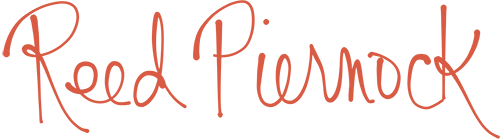
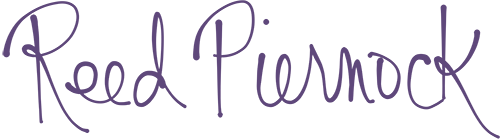
monochrome color scheme

diff --git a/themes/nighthawk/static/css/main.css b/themes/nighthawk/static/css/main.css
@@ -1,1 +1,1 @@
-*{position:relative;-moz-box-sizing:border-box;-webkit-box-sizing:border-box;box-sizing:border-box}body{margin:0;padding-top:4rem;background:#fff;color:#000;font-size:24px;line-height:1.4;font-family:"Heebo", Helvetica, Arial, sans-serif}a{-moz-transition:all,.3s,ease;-o-transition:all,.3s,ease;-webkit-transition:all,.3s,ease;transition:all,.3s,ease;color:#006ae0;font-weight:bold}a:focus,a:hover{color:#007f36}*:first-child{margin-top:0}*:last-child{margin-bottom:0}h1,h2,h3{font-family:"Lora", "Times New Roman", serif}h1{font-size:2.75rem;line-height:1}h2{font-size:1.5rem}h1+p,h2+p,h3+p,h4+p,h5+p,h6+p{margin-top:0}pre,code{margin-bottom:1rem;font-family:"Inconsolata", monospace}blockquote{margin-left:0;padding-left:1.5rem;border-left:0.25rem solid #333;color:#333}.title{margin-bottom:0;font-size:4rem}.subtitle{margin-top:0;font-size:1.5rem}.project-name{margin-bottom:0.5rem}.project-website{margin:0 0 2rem;color:#333;font-style:italic;font-size:1.2rem}header .title{margin-bottom:0.75rem;padding-bottom:0.75rem;border-bottom:1px solid #b73e2a}.float-left{float:left;margin-right:1rem}.float-right{float:right;margin-left:1rem}.float-fix{overflow:hidden}.text-center{text-align:center}.text-right{text-align:right}.container{max-width:1140px;margin:0 auto;padding-left:1rem;padding-right:1rem}header{padding:2rem 0 1rem}main{padding:1rem 0 2rem}section{margin:1rem 0 2rem}footer{padding:1rem 0 0}main.aside{overflow:hidden}@media (min-width: 0) and (max-width: 768px){main.aside{padding-left:0;padding-right:0}}@media (min-width: 768px){main.aside section{float:left;width:65%;margin-left:-1rem}main.aside aside{float:right;width:31%;margin-right:-1rem}}.project-img{max-width:400px;margin-bottom:1rem}.project-img a{border:none}.project-img img{display:block;margin-bottom:0.5rem}@media (min-width: 768px){.project-wrap{overflow:hidden;width:100%}.project-img{float:left;width:31%}.project-info{float:right;width:65%}.project-info ul.block{padding-bottom:1rem;border-bottom:1px solid #b73e2a}}aside h1{font-size:1.5rem}.band-dark{padding:1rem 0;background:#006ae0;color:#fff}.band-dark a{color:#fff7f3}.band-dark a:hover,.band-dark a:focus{background:#004694;color:#fff}.band-light{padding:2rem 0;background:#fff7f3;color:#000}.boxes{position:relative;margin-top:1rem}@media (min-width: 768px){.boxes{display:-webkit-flex;display:flex;-webkit-flex-wrap:wrap;flex-wrap:wrap;-webkit-justify-content:space-between;justify-content:space-between}}.box{display:block;margin-bottom:1rem;padding-bottom:1rem;border:none;line-height:inherit}.box img{margin-bottom:1rem}.box .title{font-size:1.2rem}.box .title.icon{margin-bottom:2rem;color:#006ae0}.box .capabilities{font-size:0.9rem}@media (min-width: 576px){.box{display:inline-block;-webkit-flex:0 1 48%;flex:0 1 48%}}@media (min-width: 992px){.box{-webkit-flex:0 1 31%;flex:0 1 31%}}@media (min-width: 768px){.box-two{-webkit-flex:0 1 65%;flex:0 1 65%}}.project{margin-bottom:2.5rem;border-radius:0.25rem;background:#007f36;color:#fff;text-decoration:none}.project img{-moz-backface-visibility:hidden;-webkit-backface-visibility:hidden;backface-visibility:hidden;filter:progid:DXImageTransform.Microsoft.Alpha(Opacity=75);opacity:.75;border-radius:0.25rem 0.25rem 0 0}.project .title,.project .capabilities{margin:0;padding:0 1rem}.project .title{margin:0 0 0.5rem}.project:hover,.project:focus{-moz-transition:all,.3s,ease;-o-transition:all,.3s,ease;-webkit-transition:all,.3s,ease;transition:all,.3s,ease;background:#003315;color:#d9d9d9;text-decoration:none}.project:hover img,.project:focus img{-moz-transition:all,.3s,ease;-o-transition:all,.3s,ease;-webkit-transition:all,.3s,ease;transition:all,.3s,ease;filter:progid:DXImageTransform.Microsoft.Alpha(enabled=false);opacity:1}.btn{display:inline-block;padding:0.25rem 0.75rem;border:1px solid;-moz-border-radius:.25rem;-webkit-border-radius:.25rem;border-radius:.25rem;line-height:inherit;text-decoration:none}.btn-dark{border-color:#004694;background:#006ae0;color:#fff}.btn-dark:hover,.btn-dark:focus{background:#004694;color:#d9d9d9}.btn-light{border-color:#9c870e;background:#e2c415;color:#000}.btn-light:hover,.btn-light:focus{background:#9c870e;color:#d9d9d9}.btn-small{font-size:0.9rem}.btn-large{font-size:1.5rem}.btn span{margin-right:0.5rem;vertical-align:text-bottom}pre{padding:1rem;background:#000;color:#e2c415}.js code[class*="language-"],.js pre[class*="language-"]{color:#f8f8f2;background:none;text-shadow:0 1px rgba(0,0,0,0.3);text-align:left;white-space:pre;word-spacing:normal;word-break:normal;word-wrap:normal;-moz-tab-size:4;-o-tab-size:4;tab-size:4;-webkit-hyphens:none;-moz-hyphens:none;-ms-hyphens:none;hyphens:none}.js pre[class*="language-"]{padding:1em;margin:.5em 0;overflow:auto;border-radius:0.3em}.js :not(pre)>code[class*="language-"],.js pre[class*="language-"]{background:#272822}.js :not(pre)>code[class*="language-"]{padding:.1em;border-radius:.3em;white-space:normal}.js .token.comment,.js .token.prolog,.js .token.doctype,.js .token.cdata{color:slategray}.js .token.punctuation{color:#f8f8f2}.js .namespace{opacity:.7}.js .token.property,.js .token.tag,.js .token.constant,.js .token.symbol,.js .token.deleted{color:#f92672}.js .token.boolean,.js .token.number{color:#ae81ff}.js .token.selector,.js .token.attr-name,.js .token.string,.js .token.char,.js .token.builtin,.js .token.inserted{color:#a6e22e}.js .token.operator,.js .token.entity,.js .token.url,.js .language-css .token.string,.js .style .token.string,.js .token.variable{color:#f8f8f2}.js .token.atrule,.js .token.attr-value,.js .token.function{color:#e6db74}.js .token.keyword{color:#66d9ef}.js .token.regex,.js .token.important{color:#fd971f}.js .token.important,.js .token.bold{font-weight:bold}.js .token.italic{font-style:italic}.js .token.entity{cursor:help}.code-example h2{margin:0;padding:0.5rem 1rem;background:#006ae0;color:#fff}.code-select.inline{margin:0;background:#fff7f3;font-size:0.9rem;text-align:right}.code-select.inline li{margin:0}.code-select.inline li.active a{background:#333;color:#fff}.code-select.inline a{padding:0.5rem 1rem;border:none}.code-block{position:relative;margin-bottom:1rem}label{display:block;margin-bottom:0.25rem}input,textarea,select{border:1px solid #333;font-size:1rem}input,textarea{padding:0.25rem 0.5rem}textarea{width:40rem;max-width:100%;height:6rem}header{text-align:center}header .logo{max-width:500px;width:100%}img{max-width:100%;height:auto}.profile-photo{display:block;max-width:250px;margin:0 auto 2rem auto;border-radius:50%;border:0.35rem solid #fff}.icon{text-decoration:none}.icon span{vertical-align:middle}nav a{display:inline-block}nav a:hover,nav a:focus{background-color:#fff7f3}nav a.active{color:#006ae0}.inline{list-style:none;margin-bottom:1rem;padding:0;word-spacing:-4px}.inline li{display:inline;margin-right:1rem;word-spacing:normal}.inline li:last{margin-right:0}.block{list-style:none;margin-bottom:1rem;padding:0}.block li{margin-top:0.5rem}.block li:first-child{margin-top:0}.block li a{display:block}nav{-moz-transition:all,.5s,ease;-o-transition:all,.5s,ease;-webkit-transition:all,.5s,ease;transition:all,.5s,ease;position:fixed;z-index:1;top:0;overflow:auto;width:100%;background:#fff;-moz-box-shadow:0 1px 4px 0 #333;-webkit-box-shadow:0 1px 4px 0 #333;box-shadow:0 1px 4px 0 #333}nav a{margin-right:-1rem;margin-left:-1rem;padding-top:1rem;padding-right:1rem;padding-bottom:1rem;padding-left:1rem}@media (min-width: 576px){nav a{margin-bottom:0}}nav .fa{font-size:2rem}nav .home{float:lelft}nav .home .text{display:none}nav .nav{float:right;margin-top:0;padding:0;letter-spacing:-4px}nav .nav li{display:inline;letter-spacing:0}nav .nav .fa{display:none}@media (min-width: 576px){nav .fa{margin-right:0.5rem;font-size:1rem}nav .home .text{display:inline}nav .nav .fa{display:inline}nav .nav li{margin-left:2rem}}.home main{padding:0}.home section{margin:3rem 0 4rem}.home #about{padding:4rem 0}.hidden{position:absolute !important;clip:rect(1px, 1px, 1px, 1px);overflow:hidden;width:1px !important;height:1px !important;padding:0 !important;border:0 !important}.displayed{position:relative;clip:auto;width:auto;height:auto}
+*{position:relative;-moz-box-sizing:border-box;-webkit-box-sizing:border-box;box-sizing:border-box}body{margin:0;padding-top:4rem;background:#fff;color:#000;font-size:24px;line-height:1.4;font-family:"Heebo", Helvetica, Arial, sans-serif}a{-moz-transition:all .3s ease;-o-transition:all .3s ease;-webkit-transition:all .3s ease;transition:all .3s ease;background:transparent;color:#5f487b;font-weight:bold}a:focus,a:hover{background:#fffaff;color:#005f52}*:first-child{margin-top:0}*:last-child{margin-bottom:0}h1,h2,h3{font-family:"Lora", "Times New Roman", serif}h1{font-size:2.75rem;line-height:1}h2{font-size:1.5rem}h1+p,h2+p,h3+p,h4+p,h5+p,h6+p{margin-top:0}pre,code{margin-bottom:1rem;font-family:"Inconsolata", monospace}blockquote{margin-left:0;padding-left:1.5rem;border-left:0.25rem solid #2c1548;color:#5f487b}.title{margin-bottom:0;font-size:4rem}.subtitle{margin-top:0;font-size:1.5rem}.project-name{margin-bottom:0.5rem}.project-website{margin:0 0 2rem;color:#2c1548;font-style:italic;font-size:1.2rem}header .title{margin-bottom:0.75rem;padding-bottom:0.75rem;border-bottom:1px solid #5f487b}.float-left{float:left;margin-right:1rem}.float-right{float:right;margin-left:1rem}.float-fix{overflow:hidden}.text-center{text-align:center}.text-right{text-align:right}.container{max-width:1140px;margin:0 auto;padding-left:1rem;padding-right:1rem}header{padding:2rem 0 1rem}main{padding:1rem 0 2rem}section{margin:1rem 0 2rem}footer{padding:1rem 0 0}main.aside{overflow:hidden}@media (min-width: 0) and (max-width: 768px){main.aside{padding-left:0;padding-right:0}}@media (min-width: 768px){main.aside section{float:left;width:65%;margin-left:-1rem}main.aside aside{float:right;width:31%;margin-right:-1rem}}.project-img{max-width:400px;margin-bottom:1rem}.project-img a{border:none}.project-img img{display:block;margin-bottom:0.5rem}@media (min-width: 768px){.project-wrap{overflow:hidden;width:100%}.project-img{float:left;width:31%}.project-info{float:right;width:65%}.project-info ul.block{padding-bottom:1rem;border-bottom:1px solid #5f487b}}aside h1{font-size:1.5rem}.band-light{padding:2rem 0;border-top:1px solid #dec7fa;border-bottom:1px solid #dec7fa;background:#fffaff;color:#000}.band-dark{padding:1rem 0;background:#5f487b;color:#fff}.band-dark a{color:#fffaff}.band-dark a:hover,.band-dark a:focus{background:#2c1548}.boxes{position:relative;margin-top:1rem}@media (min-width: 768px){.boxes{display:-webkit-flex;display:flex;-webkit-flex-wrap:wrap;flex-wrap:wrap;-webkit-justify-content:space-between;justify-content:space-between}}.box{display:block;margin-bottom:1rem;padding-bottom:1rem;border:none;line-height:inherit}.box img{margin-bottom:1rem}.box .title{font-size:1.2rem}.box .title.icon{margin-bottom:2rem;color:#5f487b}.box .capabilities{font-size:0.9rem}@media (min-width: 576px){.box{display:inline-block;-webkit-flex:0 1 48%;flex:0 1 48%}}@media (min-width: 992px){.box{-webkit-flex:0 1 31%;flex:0 1 31%}}@media (min-width: 768px){.box-two{-webkit-flex:0 1 65%;flex:0 1 65%}}.project{margin-bottom:2.5rem;border-radius:0.25rem;border:1px solid #dec7fa;background:#fffaff;color:#2c1548;text-decoration:none}.project img{-moz-backface-visibility:hidden;-webkit-backface-visibility:hidden;backface-visibility:hidden;filter:progid:DXImageTransform.Microsoft.Alpha(Opacity=75);opacity:.75;border-radius:0.25rem 0.25rem 0 0}.project .title,.project .capabilities{margin:0;padding:0 1rem}.project .title{margin:0 0 0.5rem}.project:hover,.project:focus{-moz-transition:all,.3s,ease;-o-transition:all,.3s,ease;-webkit-transition:all,.3s,ease;transition:all,.3s,ease}.project:hover img,.project:focus img{-moz-transition:all,.3s,ease;-o-transition:all,.3s,ease;-webkit-transition:all,.3s,ease;transition:all,.3s,ease;filter:progid:DXImageTransform.Microsoft.Alpha(enabled=false);opacity:1}.btn{display:inline-block;padding:0.25rem 0.75rem;border:1px solid;-moz-border-radius:.25rem;-webkit-border-radius:.25rem;border-radius:.25rem;border-color:#2c1548;background:#5f487b;color:#fff;line-height:inherit;text-decoration:none}.btn:hover,.btn:focus{background:#2c1548;color:#fff}.btn-small{font-size:0.9rem}.btn-large{font-size:1.5rem}.btn span{margin-right:0.5rem;vertical-align:text-bottom}pre{padding:1rem;background:#000;color:#f9f871}.js code[class*="language-"],.js pre[class*="language-"]{color:#f8f8f2;background:none;text-shadow:0 1px rgba(0,0,0,0.3);text-align:left;white-space:pre;word-spacing:normal;word-break:normal;word-wrap:normal;-moz-tab-size:4;-o-tab-size:4;tab-size:4;-webkit-hyphens:none;-moz-hyphens:none;-ms-hyphens:none;hyphens:none}.js pre[class*="language-"]{padding:1em;margin:.5em 0;overflow:auto;border-radius:0.3em}.js :not(pre)>code[class*="language-"],.js pre[class*="language-"]{background:#272822}.js :not(pre)>code[class*="language-"]{padding:.1em;border-radius:.3em;white-space:normal}.js .token.comment,.js .token.prolog,.js .token.doctype,.js .token.cdata{color:slategray}.js .token.punctuation{color:#f8f8f2}.js .namespace{opacity:.7}.js .token.property,.js .token.tag,.js .token.constant,.js .token.symbol,.js .token.deleted{color:#f92672}.js .token.boolean,.js .token.number{color:#ae81ff}.js .token.selector,.js .token.attr-name,.js .token.string,.js .token.char,.js .token.builtin,.js .token.inserted{color:#a6e22e}.js .token.operator,.js .token.entity,.js .token.url,.js .language-css .token.string,.js .style .token.string,.js .token.variable{color:#f8f8f2}.js .token.atrule,.js .token.attr-value,.js .token.function{color:#e6db74}.js .token.keyword{color:#66d9ef}.js .token.regex,.js .token.important{color:#fd971f}.js .token.important,.js .token.bold{font-weight:bold}.js .token.italic{font-style:italic}.js .token.entity{cursor:help}.code-example h2{margin:0;padding:0.5rem 1rem;background:#5f487b;color:#fff}.code-select.inline{margin:0;font-size:0.9rem;text-align:right}.code-select.inline li{margin:0}.code-select.inline li.active a{background:#2c1548;color:#fff}.code-select.inline a{padding:0.5rem 1rem;border:none}.code-block{position:relative;margin-bottom:1rem}label{display:block;margin-bottom:0.25rem}input,textarea,select{border:1px solid #2c1548;font-size:1rem}input,textarea{padding:0.25rem 0.5rem}textarea{width:40rem;max-width:100%;height:6rem}header{text-align:center}header .logo{max-width:500px;width:100%}img{max-width:100%;height:auto}.profile-photo{display:block;max-width:250px;margin:0 auto 2rem auto;border-radius:50%;border:0.35rem solid #fff}.icon{text-decoration:none}.icon span{vertical-align:middle}.icon span.text{text-decoration:underline}nav a{display:inline-block}.inline{list-style:none;margin-bottom:1rem;padding:0;word-spacing:-4px}.inline li{display:inline;margin-right:1rem;word-spacing:normal}.inline li:last{margin-right:0}.block{list-style:none;margin-bottom:1rem;padding:0}.block li{margin-top:0.5rem}.block li:first-child{margin-top:0}.block li a{display:block}nav{-moz-transition:all,.5s,ease;-o-transition:all,.5s,ease;-webkit-transition:all,.5s,ease;transition:all,.5s,ease;position:fixed;z-index:1;top:0;overflow:auto;width:100%;background:#fff;-moz-box-shadow:0 1px 4px 0 #2c1548;-webkit-box-shadow:0 1px 4px 0 #2c1548;box-shadow:0 1px 4px 0 #2c1548}nav a{margin-right:-1rem;margin-left:-1rem;padding-top:1rem;padding-right:1rem;padding-bottom:1rem;padding-left:1rem}@media (min-width: 576px){nav a{margin-bottom:0}}nav .fa{font-size:2rem}nav .home{float:lelft}nav .home .text{display:none}nav .nav{float:right;margin-top:0;padding:0;letter-spacing:-4px}nav .nav li{display:inline;letter-spacing:0}nav .nav .fa{display:none}@media (min-width: 576px){nav .fa{margin-right:0.5rem;font-size:1rem}nav .home .text{display:inline}nav .nav .fa{display:inline}nav .nav li{margin-left:2rem}}.home main{padding:0}.home section{margin:3rem 0 4rem}.home #about{padding:4rem 0}.hidden{position:absolute !important;clip:rect(1px, 1px, 1px, 1px);overflow:hidden;width:1px !important;height:1px !important;padding:0 !important;border:0 !important}.displayed{position:relative;clip:auto;width:auto;height:auto}

diff --git a/themes/nighthawk/static/sass/base/_colors.scss b/themes/nighthawk/static/sass/base/_colors.scss
@@ -3,70 +3,66 @@
 $white: #ffffff;
 $black: #000000;
 
-$orange: #b73e2a;
-$yellow: #e2c415;
-$green: #007f36;
-$blue: #006ae0;
+$brand: #5f487b;
 
-$grey: #333333;
-$cream: #fff7f3;
+$brand-dark: #2c1548;
+$brand-med: #dec7fa;
+$brand-light: #fffaff;
+
+$brand-comp: #005f52;
+$brand-bright: #f9f871;
 
 
 
 $body-bg: $white;
 $body-txt: $black;
 
-$link-txt: $blue;
-$link-txt-hover: $green;
+$heading-txt: $brand;
 
-$band-bg: $blue;
-$band-txt: $white;
-$band-link-txt: $cream;
-$band-link-txt-hover: $white;
+$link-txt: $brand;
+$link-txt-hover: $brand-comp;
+$link-bg: transparent;
+$link-bg-hover: $brand-light;
 
-$band-light-bg: $cream;
-$band-light-txt: $black;
-
-$box-title-txt: $blue;
-
-$project-bg: $green;
-$project-bg-hover: darken($project-bg, 15%);
-$project-txt: $white;
-$project-txt-hover: darken($project-txt, 15%);
-
-$btn-dark-bdr: darken($blue, 15%);
-$btn-dark-bg: $blue;
-$btn-dark-bg-hover: darken($btn-dark-bg, 15%);
-$btn-dark-txt: $white;
-$btn-dark-txt-hover: darken($btn-dark-txt, 15%);
-
-$btn-light-bdr: darken($yellow, 15%);
-$btn-light-bg: $yellow;
-$btn-light-bg-hover: darken($btn-light-bg, 15%);
-$btn-light-txt: $black;
-$btn-light-txt-hover: darken($btn-dark-txt, 15%);
-
-$code-example-bg: $blue;
-$code-example-txt: $white;
-$code-select-link-active-bg: $grey;
-$code-select-link-active-txt: $white;
-
-$form-input-brd: $grey;
+$border-dark: $brand;
+$border-light: $brand-med;
 
 $profile-photo-brd: $white;
 
 $nav-bg: $white;
-$nav-shadow: $grey;
-$nav-link-brd: $blue;
-$nav-link-brd-hover: $green;
-$nav-link-bg-hover: $cream;
-$nav-link-brd-active: $blue;
-$nav-link-txt-active: $blue;
+$nav-shadow: $brand-dark;
 
-$section-link-brd: $blue;
-$section-link-brd-hover: $green;
+$btn-bdr: $brand-dark;
+$btn-bg: $brand;
+$btn-bg-hover: $brand-dark;
+$btn-txt: $white;
+$btn-txt-hover: $white;
 
-$footer-link-brd: $white;
-$footer-link-brd-hover: $cream;
+$blockquote-brd: $brand-dark;
+$blockquote-txt: $brand;
 
-$project-info-brd: $orange;
+$band-bg: $brand;
+$band-txt: $white;
+$band-link-txt: $brand-light;
+$band-link-bg-hover: $brand-dark;
+
+$band-light-brd: $brand-med;
+$band-light-bg: $brand-light;
+$band-light-txt: $black;
+
+$box-title-txt: $brand;
+
+$project-brd: $brand-med;
+$project-bg: $brand-light;
+$project-txt: $brand-dark;
+
+$project-info-brd: $brand;
+
+$project-website-txt: $brand-dark;
+
+$code-example-bg: $brand;
+$code-example-txt: $white;
+$code-select-link-active-bg: $brand-dark;
+$code-select-link-active-txt: $white;
+
+$form-input-brd: $brand-dark;

diff --git a/themes/nighthawk/static/css/print.css b/themes/nighthawk/static/css/print.css
@@ -1,1 +1,1 @@
-*{background:transparent !important;color:#000}body{font-size:16pt}nav,footer,.home #projects{display:none}a,aside a{color:#006ae0;text-decoration:underline}a[href^="http"]::after,aside a[href^="http"]::after{content:" (" attr(href) ")";font-weight:normal;font-size:0.8rem}img{max-width:100%;height:auto}.container{max-width:100%}.project img{opacity:1}.code-example .code-select{display:none}
+*{background:transparent !important;color:#000}body{font-size:16pt}nav,footer,.home #projects{display:none}a,aside a{color:#5f487b;text-decoration:underline}a[href^="http"]::after,aside a[href^="http"]::after{content:" (" attr(href) ")";font-weight:normal;font-size:0.8rem}img{max-width:100%;height:auto}.container{max-width:100%}.project img{opacity:1}.code-example .code-select{display:none}

diff --git a/themes/nighthawk/static/sass/component/_buttons.scss b/themes/nighthawk/static/sass/component/_buttons.scss
@@ -3,26 +3,14 @@
     padding: 0.25rem 0.75rem;
     border: 1px solid;
     @include border-radius(0.25rem);
+    border-color: $btn-bdr;
+    background: $btn-bg;
+    color: $btn-txt;
     line-height: inherit;
     text-decoration: none;
-}
-
-.btn-dark {
-    border-color: $btn-dark-bdr;
-    background: $btn-dark-bg;
-    color: $btn-dark-txt;
     &:hover, &:focus {
-        background: $btn-dark-bg-hover;
-        color: $btn-dark-txt-hover;
-    }
-}
-.btn-light {
-    border-color: $btn-light-bdr;
-    background: $btn-light-bg;
-    color: $btn-light-txt;
-    &:hover, &:focus {
-        background: $btn-light-bg-hover;
-        color: $btn-light-txt-hover;
+        background: $btn-bg-hover;
+        color: $btn-txt-hover;
     }
 }
 

diff --git a/themes/nighthawk/static/sass/base/_typography.scss b/themes/nighthawk/static/sass/base/_typography.scss
@@ -30,8 +30,8 @@ pre, code {
 blockquote {
     margin-left: 0;
     padding-left: 1.5rem;
-    border-left: 0.25rem solid $grey;
-    color: $grey;
+    border-left: 0.25rem solid $blockquote-brd;
+    color: $blockquote-txt;
 }
 
 
@@ -51,7 +51,7 @@ blockquote {
 }
 .project-website {
     margin: 0 0 2rem;
-    color: $grey;
+    color: $project-website-txt;
     font-style: italic;
     font-size: 1.2rem;
 }
@@ -62,7 +62,7 @@ header {
     .title {
         margin-bottom: 0.75rem;
         padding-bottom: 0.75rem;
-        border-bottom: 1px solid $orange;
+        border-bottom: 1px solid $border-dark;
     }
 }
 

diff --git a/themes/nighthawk/static/sass/component/_bands.scss b/themes/nighthawk/static/sass/component/_bands.scss
@@ -1,3 +1,11 @@
+.band-light {
+    padding: 2rem 0;
+    border-top: 1px solid $band-light-brd;
+    border-bottom: 1px solid $band-light-brd;
+    background: $band-light-bg;
+    color: $band-light-txt;
+}
+
 .band-dark {
     padding: 1rem 0;
     background: $band-bg;
@@ -5,14 +13,7 @@
     a {
         color: $band-link-txt;
         &:hover, &:focus {
-            background: darken( $band-bg, 15% );
-            color: $band-link-txt-hover;
+            background: $band-link-bg-hover;
         }
     }
-}
-
-.band-light {
-    padding: 2rem 0;
-    background: $band-light-bg;
-    color: $band-light-txt;
 }

diff --git a/themes/nighthawk/layouts/partials/header.html b/themes/nighthawk/layouts/partials/header.html
@@ -31,7 +31,7 @@
 
 <header>
     <div class="container">
-        <h1 class="title"><a href="{{ .Site.BaseURL }}"><img class="logo" src="{{ .Site.BaseURL}}img/reed-piernock.png" alt="{{ .Site.Params.name }}" /></a></h1>
+        <h1 class="title"><img class="logo" src="{{ .Site.BaseURL}}img/reed-piernock.png" alt="{{ .Site.Params.name }}" /></h1>
         {{ if .IsHome }}
         <p class="subtitle">{{ .Site.Params.tagline }}</p>
         <a class="btn btn-large btn-dark" href="{{ .Site.BaseURL }}project">View my projects</a>

diff --git a/themes/nighthawk/static/sass/component/_boxes.scss b/themes/nighthawk/static/sass/component/_boxes.scss
@@ -52,6 +52,7 @@
 .project {
     margin-bottom: 2.5rem;
     border-radius: 0.25rem;
+    border: 1px solid $project-brd;
     background: $project-bg;
     color: $project-txt;
     text-decoration: none;
@@ -69,9 +70,6 @@
     }
     &:hover, &:focus {
         @include transition(all, 0.3s, ease);
-        background: $project-bg-hover;
-        color: $project-txt-hover;
-        text-decoration: none;
         img {
             @include transition(all, 0.3s, ease);
             @include opacity(1);

diff --git a/themes/nighthawk/static/sass/component/_links.scss b/themes/nighthawk/static/sass/component/_links.scss
@@ -2,15 +2,12 @@
     text-decoration: none;
     span {
         vertical-align: middle;
+        &.text {
+            text-decoration: underline;
+        }
     }
 }
 
 nav a {
     display: inline-block;
-    &:hover, &:focus {
-        background-color: $nav-link-bg-hover;
-    }
-    &.active {
-        color: $nav-link-txt-active;
-    }
 }

diff --git a/themes/nighthawk/static/sass/base/_global.scss b/themes/nighthawk/static/sass/base/_global.scss
@@ -16,10 +16,12 @@ body {
 }
 
 a {
-    @include transition(all, 0.3s, ease);
+    @include transition(all 0.3s ease);
+    background: $link-bg;
     color: $link-txt;
     font-weight: bold;
     &:focus, &:hover {
+        background: $link-bg-hover;
         color: $link-txt-hover;
     }
 }

diff --git a/themes/nighthawk/static/sass/print.scss b/themes/nighthawk/static/sass/print.scss
@@ -24,7 +24,7 @@ nav, footer,
 
 
 a, aside a {
-    color: $blue;
+    color: $brand;
     text-decoration: underline;
     &[href^="http"]::after {
         content: " ("attr(href)")";

diff --git a/themes/nighthawk/static/sass/component/_code-block.scss b/themes/nighthawk/static/sass/component/_code-block.scss
@@ -11,7 +11,6 @@
 
 .code-select.inline {
     margin: 0;
-    background: $cream;
     font-size: 0.9rem;
     text-align: right;
     li {
